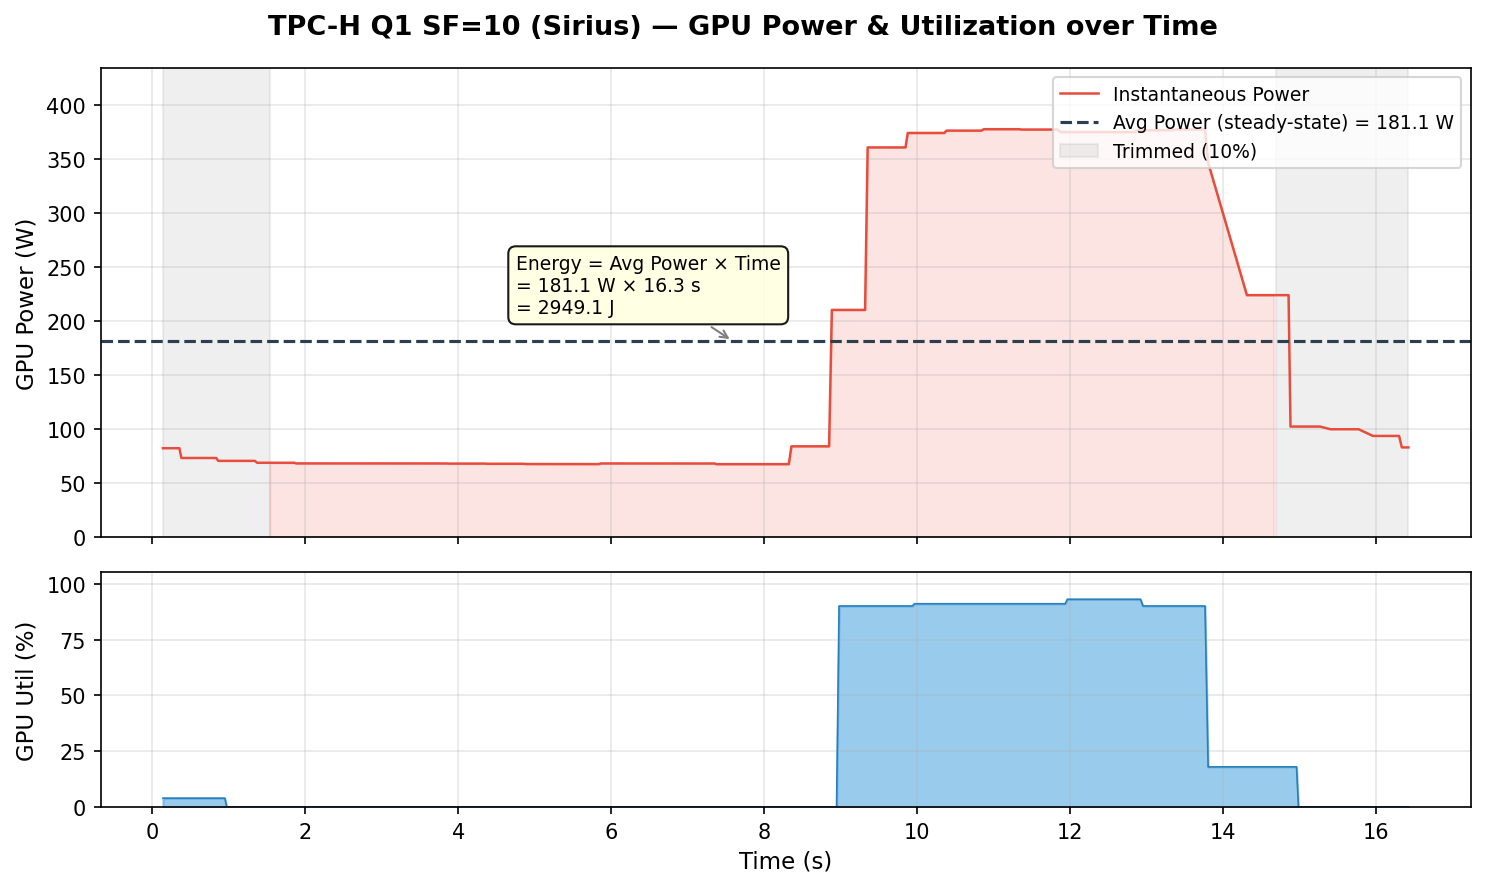
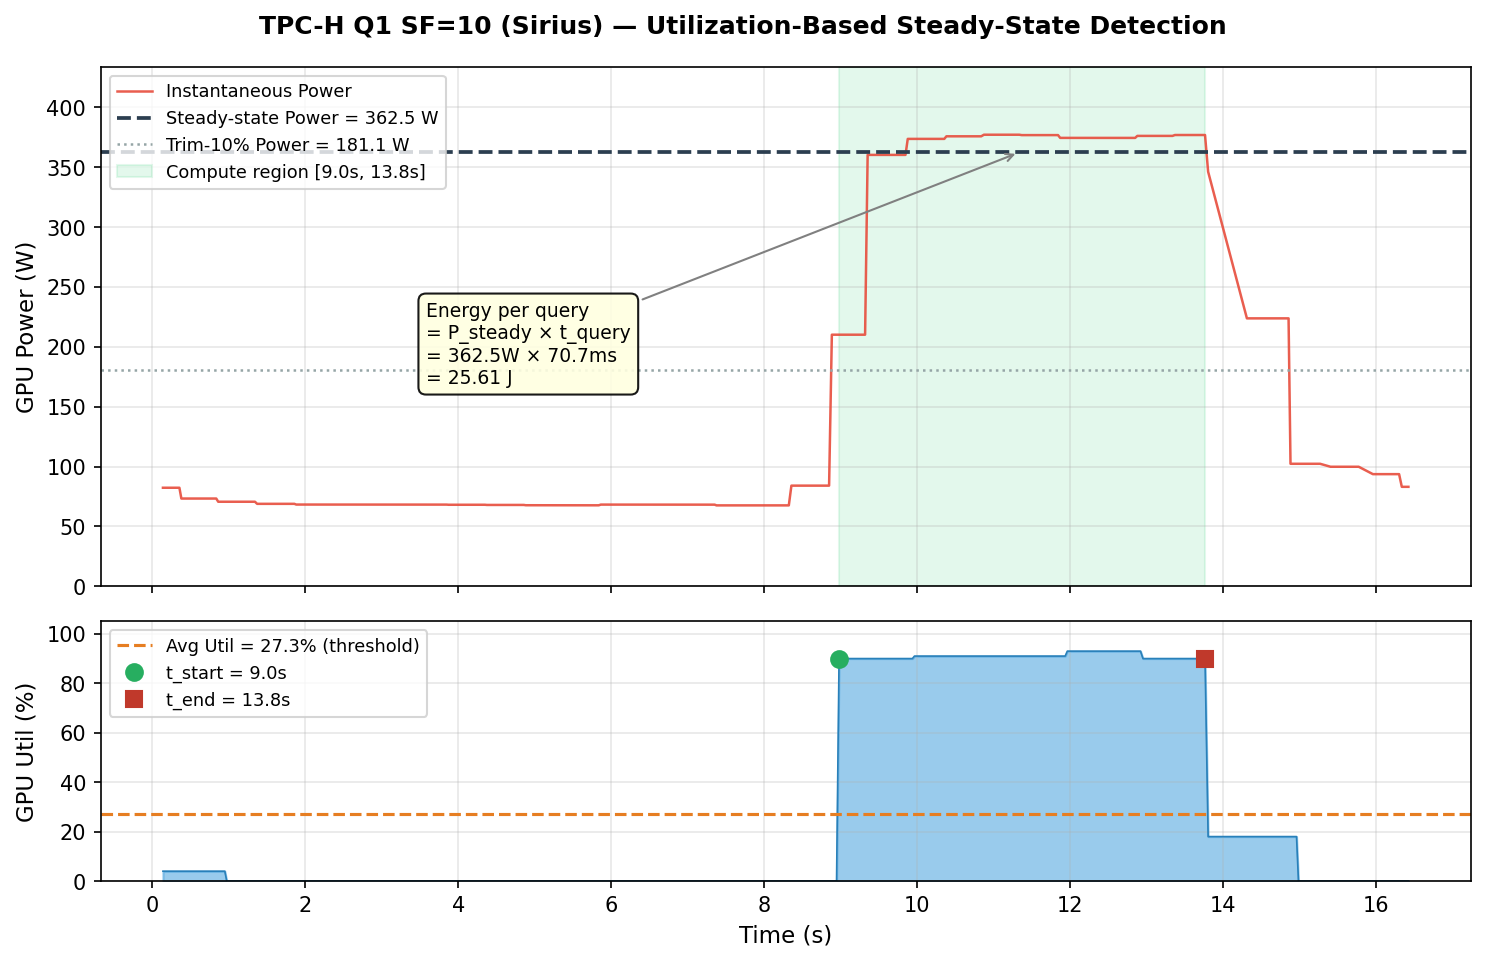
docs: fix energy methodology — use utilization-based steady-state detection
Replace the incorrect trim-10% description with the actual methodology:
- Compute avg GPU utilization across all samples as threshold
- Find t_start/t_end where util >= avg_util (compute region boundaries)
- Average power within compute region = steady-state power
- Energy = P_steady × t_query (per-query, not total runtime)

Updated plot shows both methods: utilization-based (362.5W) vs naive
trim-10% (181.1W), demonstrating why the threshold method is needed
when idle phase dominates the trace.

diff --git a/README.md b/README.md
@@ -53,41 +53,48 @@ python benchmarks/scripts/run_sirius_benchmark.py tpch h2o
 
 ### 2. Energy & Power
 
-GPU power is sampled via `nvidia-smi` at **50ms intervals** from a background thread during query execution. The methodology ensures **steady-state** measurement:
+GPU power is sampled via `nvidia-smi` at **50ms intervals** from a background thread during query execution:
 
 ```
 Step 1: Calibrate — run 3 reps to measure base latency (e.g. 15ms/query)
 Step 2: Calculate n_reps so total runtime >= 10s (e.g. ceil(10000/15) = 667 reps)
 Step 3: Run n_reps while sampling nvidia-smi every 50ms
-Step 4: Trim first/last 10% of samples → steady-state window
-Step 5: Compute metrics from steady-state samples
+Step 4: Detect steady-state compute region via GPU utilization
+Step 5: Compute avg power within compute region → derive energy
 ```
 
-**Average power** is the mean of all power samples within the steady-state window (after trimming):
+#### Steady-state detection (utilization-based)
+
+A typical power trace has three phases: idle (~70W, GPU loading data), compute (200-400W, queries executing), and cooldown. Simply trimming 10% from each end fails when the idle phase is long — it still includes mostly idle samples.
+
+Instead, we use **GPU utilization as the boundary signal**:
 
 ```
-P_avg = (1/N) * sum(P_i)    where P_i are the trimmed power samples
+1. Compute avg_util across ALL samples
+2. t_start = first sample where gpu_util >= avg_util
+3. t_end   = last  sample where gpu_util >= avg_util
+4. P_steady = mean(power[t_start : t_end])    ← compute-region average
 ```
 
-**Energy** is computed as:
+This isolates the actual compute phase regardless of how long the idle/loading phase lasts.
+
+#### Energy per query
 
 ```
-E = P_avg * T_total          (Joules = Watts * seconds)
+E_query = P_steady × t_query
 ```
 
-where `T_total` is the wall-clock time of the entire run (all n_reps), and `P_avg` is from the steady-state window. This approximation is valid because the 10% trim removes the ramp-up/ramp-down transients, and the sustained compute phase dominates the total runtime.
+where `P_steady` is the utilization-bounded average power, and `t_query` is the per-query latency from timing measurements (not the total multi-rep runtime).
 
-#### Example: TPC-H Q1, SF=10
-
-The plot below shows instantaneous GPU power (red) and utilization (blue) over time. The dashed line is the steady-state average power. Gray regions are the trimmed 10% on each side.
+#### Example: TPC-H Q1, SF=10 (Sirius)
 
 ![TPC-H Q1 SF=10 Power/Time](results/plots/tpch_q1_sf10_power_time.png)
 
-Key observations from this query:
-- **Idle phase** (0–8s): GPU buffer initialization, ~70W idle power
-- **Compute phase** (8–14s): Power spikes to 350–380W, GPU utilization hits 90%+
-- **Steady-state avg**: 181W across the full window (including idle), Energy = 181W x 16.3s = 2949J
-- The 10% trim (gray) removes startup and cooldown artifacts
+- **455 samples** over 16.3s. Avg GPU utilization across all samples = 27.3%
+- **Utilization threshold** detects compute region at [9.0s, 13.8s] (green shading)
+- **P_steady = 362.5W** (avg within compute region), vs naive trim-10% = 181.1W (includes idle)
+- **Energy per query** = 362.5W x 70.7ms = 25.6 J
+- Bottom panel shows GPU util: the green/red dots mark t_start and t_end where util crosses the threshold
 
 ```bash
 # Run energy/power measurement
